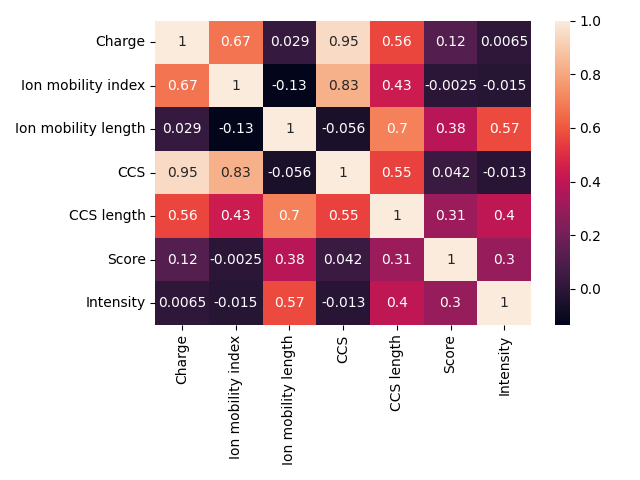
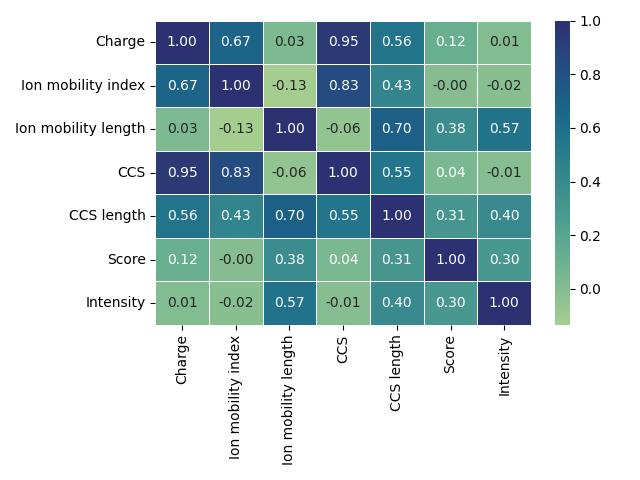
redesigned plots

diff --git a/plots/Plotting_distributions.py b/plots/Plotting_distributions.py
@@ -3,14 +3,16 @@ import matplotlib.pyplot as plt
 import shutil
 
 # load data
-tenzer_waters = pd.read_csv("/Users/mad_hatter/Desktop/Bioinfo/PBL/data/tenzer_waters.csv")
-mb_path = "/Users/mad_hatter/Desktop/Bioinfo/PBL/data/mann_bruker_simplified.txt"
+tenzer_waters = pd.read_csv("C:/Users/Fabian Mathis/Desktop/ion-mobility-prediction/data/tenzer_waters.csv")
+print(tenzer_waters)
+mb_path = "C:/Users/Fabian Mathis/Desktop/ion-mobility-prediction/data/mann_bruker_simplified.txt"
 mann_brukers = pd.read_csv(mb_path, sep=",")
 
 print(mann_brukers.iloc[1], "\n")
 
 # min - max normalize CCS and CCS length values - really not used but just in case for later
-mann_brukers["CCS_normalized"] = mann_brukers["CCS"] - mann_brukers["CCS"].min() / mann_brukers["CCS"].max() - mann_brukers["CCS"].min()
+mann_brukers["CCS_normalized"] = mann_brukers["CCS"] - mann_brukers["CCS"].min() / mann_brukers["CCS"].max() - \
+                                 mann_brukers["CCS"].min()
 
 # plotting for ion mobility length, first extract counts then plot
 ion_mobility_length_counts = mann_brukers["Ion mobility length"].value_counts()
@@ -25,20 +27,18 @@ subset_values = [40, 70, 100, 130, 160]
 subset_positions = [ion_mobility_length_counts.index.get_loc(value) for value in subset_values]
 plt.xticks(subset_positions, subset_values, rotation=0)  # Set the subset values and rotate them horizontally
 plt.tight_layout()
-#plt.show()
+# plt.show()
 
 # Save the plot as a PDF file and download
-plt.savefig('Ion mobility length.pdf')
+# plt.savefig('Ion mobility length.pdf')
 source_file = 'Ion mobility length.pdf'
 destination_file = "/Users/mad_hatter/Desktop/Bioinfo/PBL/data/plots/Ion mobility length.pdf"
 shutil.copy2(source_file, destination_file)
-
 
 # summary statistics
 print("Summary Statistics for Ion mobility length HERE")
 summary_IMI = mann_brukers["Ion mobility length"].describe().round(2)
 print(summary_IMI, "\n")
-
 
 # ion mobility index - is the same as drift time!
 ion_mobility_index_counts = mann_brukers["Ion mobility index"].value_counts()
@@ -52,10 +52,10 @@ subset_values = [54, 303, 486, 612, 882]
 subset_positions = [ion_mobility_index_counts.index.get_loc(value) for value in subset_values]
 plt.xticks(subset_positions, subset_values, rotation=0)  # Set the subset values and rotate them horizontally
 plt.tight_layout()
-#plt.show()
+plt.show()
 
 # Save the plot as a PDF file
-plt.savefig('Ion mobility index.pdf')
+# plt.savefig('Ion mobility index.pdf')
 source_file = 'Ion mobility index.pdf'
 destination_file = "/Users/mad_hatter/Desktop/Bioinfo/PBL/data/plots/Ion mobility index.pdf"
 shutil.copy2(source_file, destination_file)
@@ -65,26 +65,23 @@ print("Summary Statistics for Ion mobility index HERE")
 summary_IMI = mann_brukers["Ion mobility index"].describe().round(2)
 print(summary_IMI, "\n")
 
-
 # CCS, or Collision Cross-Section, refers to the effective area that an ion occupies during collisions with gas
 # molecules in the ion mobility separation process. CCS_counts = mann_brukers["CCS_normalized"].value_counts()
 plt.figure(figsize=(8, 6))
 mann_brukers.boxplot(column="CCS")
 plt.title("CCS distribution boxplot")
-#plt.show()
+# plt.show()
 
 # Save the plot as a PDF file and download
-plt.savefig('CCS.pdf')
+# plt.savefig('CCS.pdf')
 source_file = 'CCS.pdf'
 destination_file = "/Users/mad_hatter/Desktop/Bioinfo/PBL/data/plots/CCS.pdf"
 shutil.copy2(source_file, destination_file)
-
 
 # summary statistics
 print("Summary Statistics for CCS HERE")
 summary_IMI = mann_brukers["CCS"].describe()
 print(summary_IMI, "\n")
-
 
 # CCS length, or Collision Cross-Section Length, refers to the physical length or extent of an ion along
 # the drift path in an ion mobility cell. It represents the distance that an ion travels during the ion mobility
@@ -92,10 +89,10 @@ print(summary_IMI, "\n")
 plt.figure(figsize=(8, 6))
 mann_brukers.boxplot(column="CCS length")
 plt.title("CCS length distribution boxplot")
-#plt.show()
+# plt.show()
 
 # Save the plot as a PDF file and download
-plt.savefig('CCS length.pdf')
+# plt.savefig('CCS length.pdf')
 source_file = 'CCS length.pdf'
 destination_file = "/Users/mad_hatter/Desktop/Bioinfo/PBL/data/plots/CCS length.pdf"
 shutil.copy2(source_file, destination_file)

diff --git a/correlation_matrices/Plotting_distributions.py b/correlation_matrices/Plotting_distributions.py
@@ -1,0 +1,110 @@
+import pandas as pd
+import matplotlib.pyplot as plt
+import shutil
+
+from Tools.scripts.var_access_benchmark import C
+
+
+def plots():
+    # load data
+    tenzer_waters = pd.read_csv("tenzer_waters.csv")
+    print(tenzer_waters)
+    mb_path = "mann_bruker_simplified.txt"
+    mann_brukers = pd.read_csv(mb_path, sep=",")
+
+    print(mann_brukers.iloc[1], "\n")
+
+    # min - max normalize CCS and CCS length values - really not used but just in case for later
+    mann_brukers["CCS_normalized"] = mann_brukers["CCS"] - mann_brukers["CCS"].min() / mann_brukers["CCS"].max() - \
+                                     mann_brukers["CCS"].min()
+
+    # plotting for ion mobility length, first extract counts then plot
+    ion_mobility_length_counts = mann_brukers["Ion mobility length"].value_counts()
+    plt.figure(figsize=(8, 6))
+    ion_mobility_length_counts.plot.hist(bins=9)
+    plt.xlabel("Ion mobility length")
+    plt.ylabel("Count")
+    plt.title("Ion mobility length distribution")
+
+    # Specify the subset of x-axis values to display
+    #subset_values = [40, 70, 100, 130, 160]
+    #subset_positions = [ion_mobility_length_counts.index.get_loc(value) for value in subset_values]
+    #plt.xticks(subset_positions, subset_values, rotation=0)  # Set the subset values and rotate them horizontally
+    plt.tight_layout()
+    # plt.show()
+
+    # Save the plot as a PDF file and download
+    # plt.savefig('Ion mobility length.pdf')
+    #source_file = 'Ion mobility length.pdf'
+    #destination_file = "Ion mobility length.pdf"
+    #shutil.copy2(source_file, destination_file)
+
+    # summary statistics
+    print("Summary Statistics for Ion mobility length HERE")
+    summary_IMI = mann_brukers["Ion mobility length"].describe().round(2)
+    print(summary_IMI, "\n")
+
+    # ion mobility index - is the same as drift time!
+    ion_mobility_index_counts = mann_brukers["Ion mobility index"].value_counts()
+    plt.figure(figsize=(8, 6))
+    ion_mobility_index_counts.plot.hist(bins=20)
+
+    plt.xlabel("Ion mobility index")
+    plt.ylabel("Count")
+    plt.title("Ion mobility index distribution")
+
+
+    plt.tight_layout()
+    plt.show()
+
+    # Save the plot as a PDF file
+    # plt.savefig('Ion mobility index.pdf')
+    #source_file = 'Ion mobility index.pdf'
+    #destination_file = "Ion mobility index.pdf"
+    #shutil.copy2(source_file, destination_file)
+
+    # summary statistics
+    print("Summary Statistics for Ion mobility index HERE")
+    summary_IMI = mann_brukers["Ion mobility index"].describe().round(2)
+    print(summary_IMI, "\n")
+
+    # CCS, or Collision Cross-Section, refers to the effective area that an ion occupies during collisions with gas
+    # molecules in the ion mobility separation process. CCS_counts = mann_brukers["CCS_normalized"].value_counts()
+    plt.figure(figsize=(8, 6))
+    mann_brukers.boxplot(column="CCS")
+    plt.title("CCS distribution boxplot")
+    plt.show()
+
+    # Save the plot as a PDF file and download
+    # plt.savefig('CCS.pdf')
+    #source_file = 'CCS.pdf'
+    #destination_file = "CCS.pdf"
+    #shutil.copy2(source_file, destination_file)
+
+    # summary statistics
+    print("Summary Statistics for CCS HERE")
+    summary_IMI = mann_brukers["CCS"].describe()
+    print(summary_IMI, "\n")
+
+    # CCS length, or Collision Cross-Section Length, refers to the physical length or extent of an ion along
+    # the drift path in an ion mobility cell. It represents the distance that an ion travels during the ion mobility
+    # separation process. CCS_length_counts = mann_brukers["CCS length"].value_counts()
+    plt.figure(figsize=(8, 6))
+    mann_brukers.boxplot(column="CCS length")
+    plt.title("CCS length distribution boxplot")
+    plt.show()
+
+    # Save the plot as a PDF file and download
+    # plt.savefig('CCS length.pdf')
+    #source_file = 'CCS length.pdf'
+    # = "CCS length.pdf"
+    #shutil.copy2(source_file, destination_file)
+
+    # summary statistics
+    print("Summary Statistics for CCS length HERE")
+    summary_IMI = mann_brukers["CCS length"].describe()
+    print(summary_IMI)
+
+
+if __name__ == "__main__":
+    plots()

diff --git a/correlation_matrices/main.py b/correlation_matrices/main.py
@@ -7,7 +7,7 @@ import matplotlib.pyplot as plt
 def gen_correlation_matrix(df, unusable_columns, filename):
     simplified_data = df.drop(unusable_columns, axis=1)
     corr_matrix = simplified_data.corr()
-    ax = sn.heatmap(corr_matrix, annot=True)
+    ax = sn.heatmap(corr_matrix, annot=True, fmt=".2f", cmap="crest", linewidths=.5)
     ax.figure.tight_layout()
     plt.savefig(filename)
     plt.close()
@@ -19,17 +19,17 @@ if __name__ == '__main__':
 
     # for all data
     not_used = ["Experiment", "Modifications", "Sequence", "Modified sequence", "Raw file"]
-    #gen_correlation_matrix(mb_df, not_used, "heatmap_mannbruker_all_columns.png")
+    gen_correlation_matrix(mb_df, not_used, "heatmap_mannbruker_all_columns.png")
 
     # just ccs and ion scores
     not_used.append("Charge")
     not_used.append("Score")
     not_used.append("Intensity")
-    #gen_correlation_matrix(mb_df, not_used, "heatmap_mannbruker_simplified.png")
+    gen_correlation_matrix(mb_df, not_used, "heatmap_mannbruker_simplified.png")
 
     # tenzer waters
     tw_raw_data = pd.read_csv(sys.argv[2])
     tw_df = pd.DataFrame(tw_raw_data)
-    not_used = ["run", "sequence", "type", "modification", "rt", "LiftOffRT"]
+    not_used = ["run", "sequence", "type", "modification", "rt", "LiftOffRT", "TouchDownRT"]
     gen_correlation_matrix(tw_df, not_used, "tenzer_waters")
 # See PyCharm help at https://www.jetbrains.com/help/pycharm/
